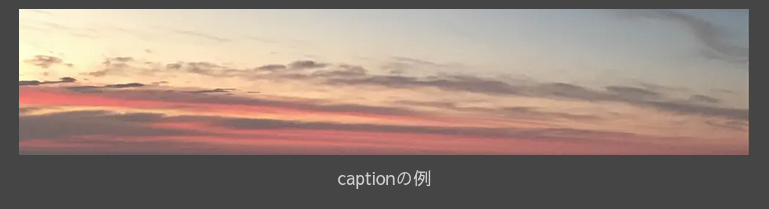
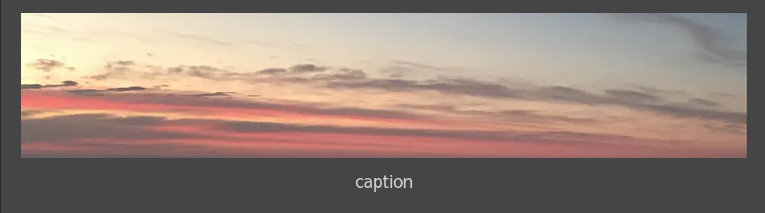
chore: update example image

diff --git a/README.md b/README.md
@@ -354,7 +354,7 @@ https://zola-coffee-theme.netlify.app/sample/
 #### Example applying all of `width`, `height`, and `caption`
 
 ```
-{{ image(path="/content/sample/image.jpg", width=1000, height=200, caption="captionの例") }}
+{{ image(path="/content/sample/image.jpg", width=1000, height=200, caption="caption") }}
 ```
 
 ![image](https://github.com/Myxogastria0808/coffee/blob/main/assets/image.png)

diff --git a/content/sample/index.md b/content/sample/index.md
@@ -111,7 +111,7 @@ graph TD;
 
 image with caption
 
-{{ image(path="/content/sample/image.jpg", width=1000, height=200, caption="captionの例") }}
+{{ image(path="/content/sample/image.jpg", width=1000, height=200, caption="caption") }}
 
 custom image
 
